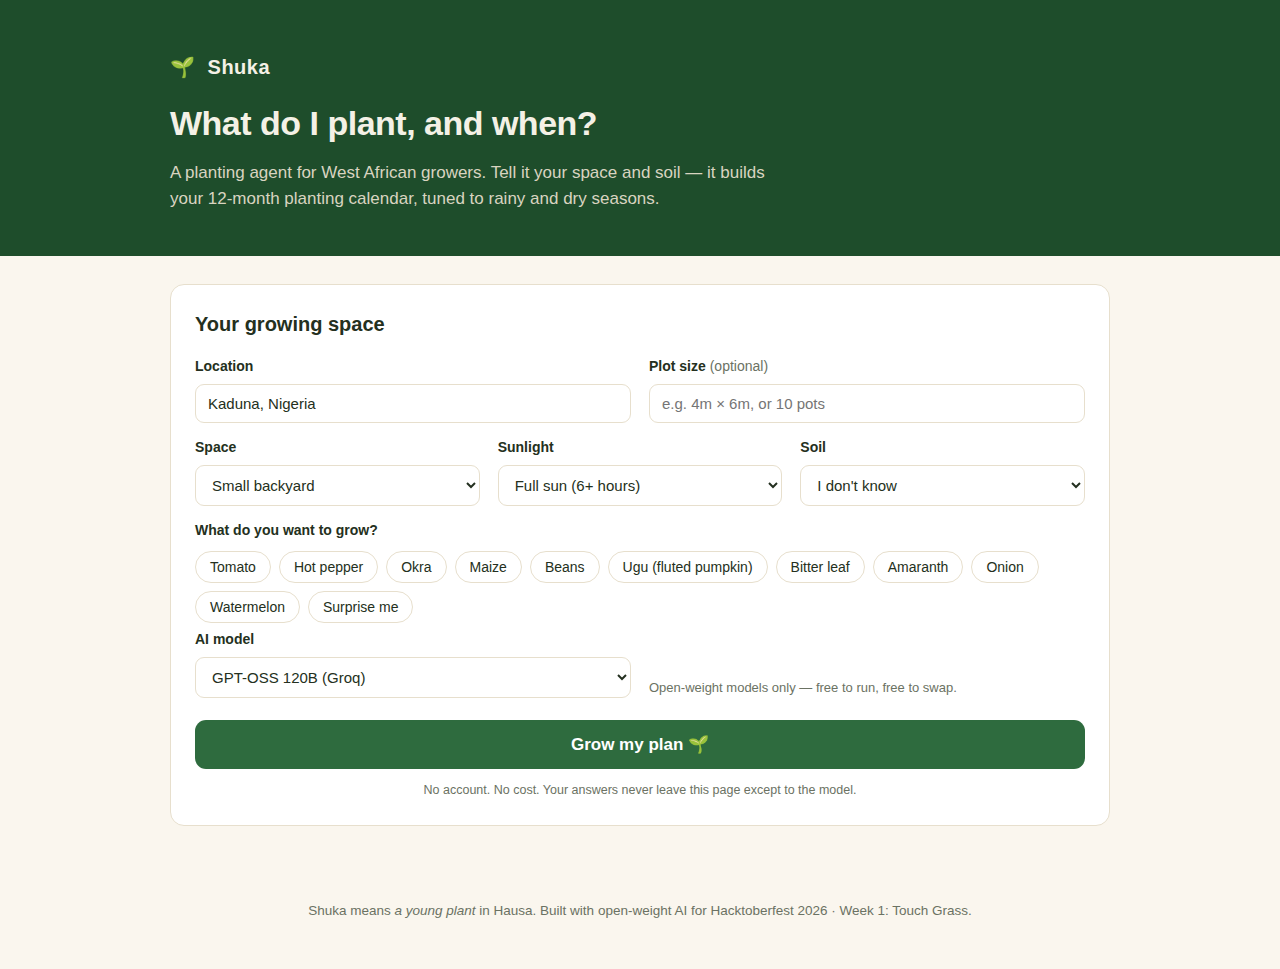
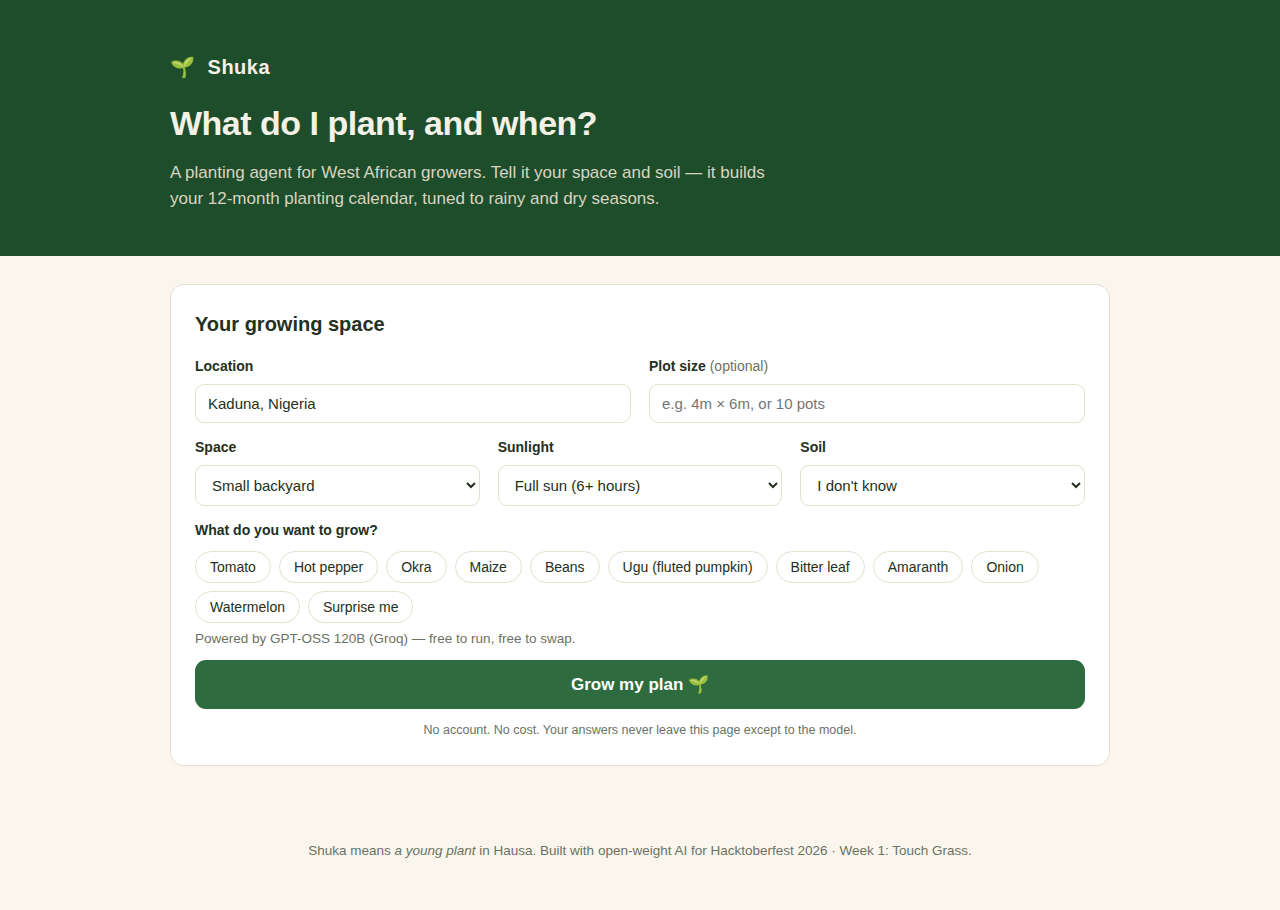
Harden model output handling and tidy docs

diff --git a/lib/shuka.js b/lib/shuka.js
@@ -34,7 +34,7 @@ function fail(code, status, message) {
   return e;
 }
 
-async function runPlan(input) {
+async function runPlan(input, attempt = 1, extraTokens = 0) {
   const models = availableModels();
   if (!models.length) {
     throw fail(
@@ -51,7 +51,10 @@ async function runPlan(input) {
 
   try {
     const { system, user } = buildPlantingPrompt(input);
-    const { text } = await provider.complete({ system, user }, { model: wanted.model });
+    const { text } = await provider.complete(
+      { system, user },
+      { model: wanted.model, maxTokens: 10000 + extraTokens }
+    );
     let plan;
     try {
       plan = JSON.parse(text);
@@ -64,8 +67,14 @@ async function runPlan(input) {
     return { plan, modelLabel: wanted.label };
   } catch (err) {
     if (err.code === "NO_KEY") throw fail("no_model_provider", 503, err.message);
-    if (err.status) throw err;
+    // Groq rejects half-written JSON when the model runs out of tokens.
+    // Retry once with more headroom instead of failing.
+    if (err.code === "PROVIDER_ERROR" && /json_validate_failed/i.test(err.message) && attempt < 2) {
+      console.warn("plan: JSON validation failed, retrying with more tokens");
+      return runPlan(input, attempt + 1, 4000);
+    }
     console.error("plan failed:", err.message);
+    // Never leak raw provider errors to the user.
     throw fail("provider_error", 502, "The model call failed. Try again in a moment.");
   }
 }

diff --git a/public/styles.css b/public/styles.css
@@ -47,6 +47,7 @@ legend { font-weight: 600; font-size: 14px; padding: 0; margin-bottom: 10px; }
 }
 .chip[aria-pressed="true"] { background: var(--green); border-color: var(--green); color: #fff; }
 .hint { align-self: end; font-size: 13px; color: var(--muted); padding-bottom: 14px; }
+.model-note { font-size: 13.5px; color: var(--muted); margin: 4px 0 10px; }
 button[type="submit"], #go-btn {
   display: block; width: 100%; margin-top: 8px; padding: 14px;
   background: var(--green); color: #fff; border: 0; border-radius: 11px;
